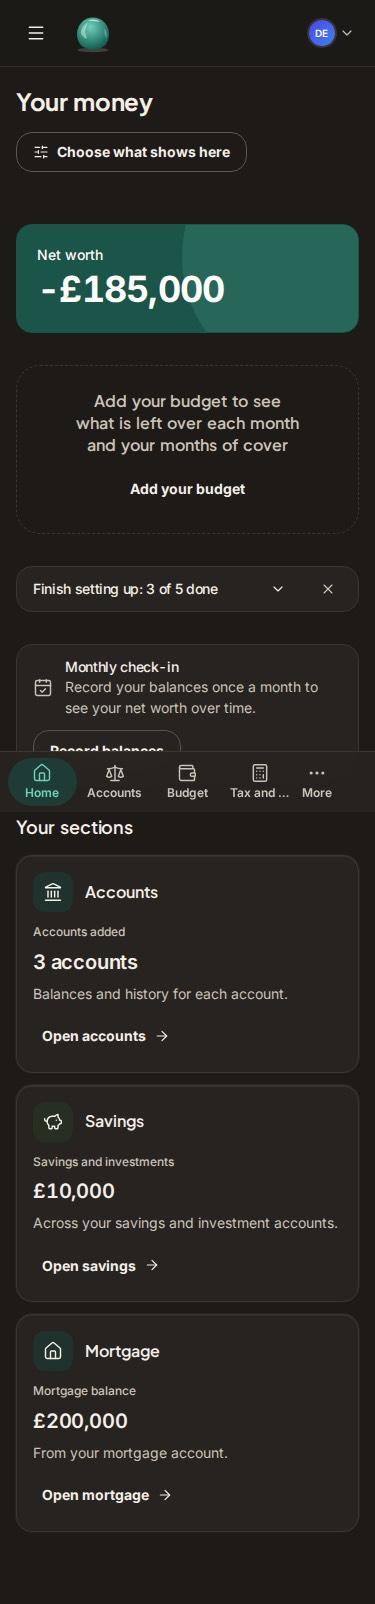
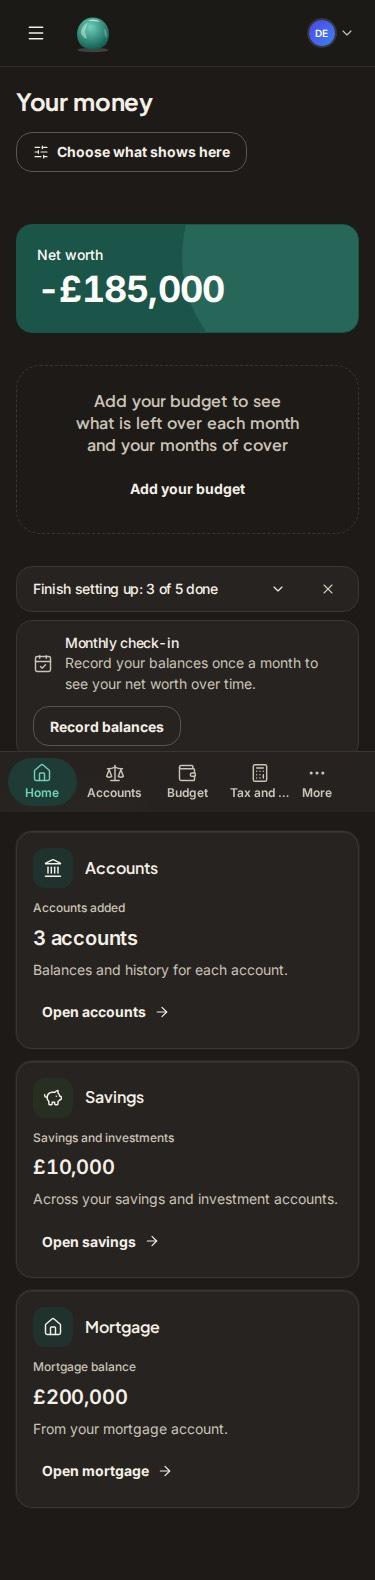
test(e2e): E16 PR 4 dashboard baselines on current branch; after screenshots and re-score

diff --git a/docs/design/e16-polish/pr4/README.md b/docs/design/e16-polish/pr4/README.md
@@ -1,0 +1,23 @@
+# E16 PR 4 screenshots: dashboard and sandbox
+
+Before: the CI visual baselines on `main` before this PR. After: the baselines regenerated in CI on this branch. Both are full page, 375 and 1280, light and dark, from the Playwright container. Files: `<dashboard|sandbox>-<width>-<theme>-<before|after>.jpg`.
+
+What changed:
+
+- Dashboard: h1 "Your money" with nothing above it. Net worth appears once, in the hero. The KPI strip has 3 cards, or a single prompt when they are unset. Setup and the monthly check-in are grouped rows. At most 4 section cards, each with one figure, one line and one link.
+- Sandbox: the same layout. Exactly 2 notices and 2 "Sign up" buttons. Locked cards show a lock icon only.
+- The 320 px horizontal overflow is fixed.
+- Forced-colours contrast findings fell from 6 to 2 on each page.
+
+Re-score (visual / simplicity):
+
+| Page      | Before        | After     |
+| --------- | ------------- | --------- |
+| Dashboard | 6.5 (5.5) / 4 | 9 / 9.5   |
+| Sandbox   | 6.5 / 4       | 9.5 / 9.5 |
+
+The dashboard visual score is below 9.5 for three reasons:
+
+- For a new user, the dashed KPI prompt is a heavy block for one line.
+- At 375, "Choose what shows here" takes its own row above the hero.
+- The seeded e2e homeowner has a mortgage but no property account, so the hero is negative. That is data, not layout.
